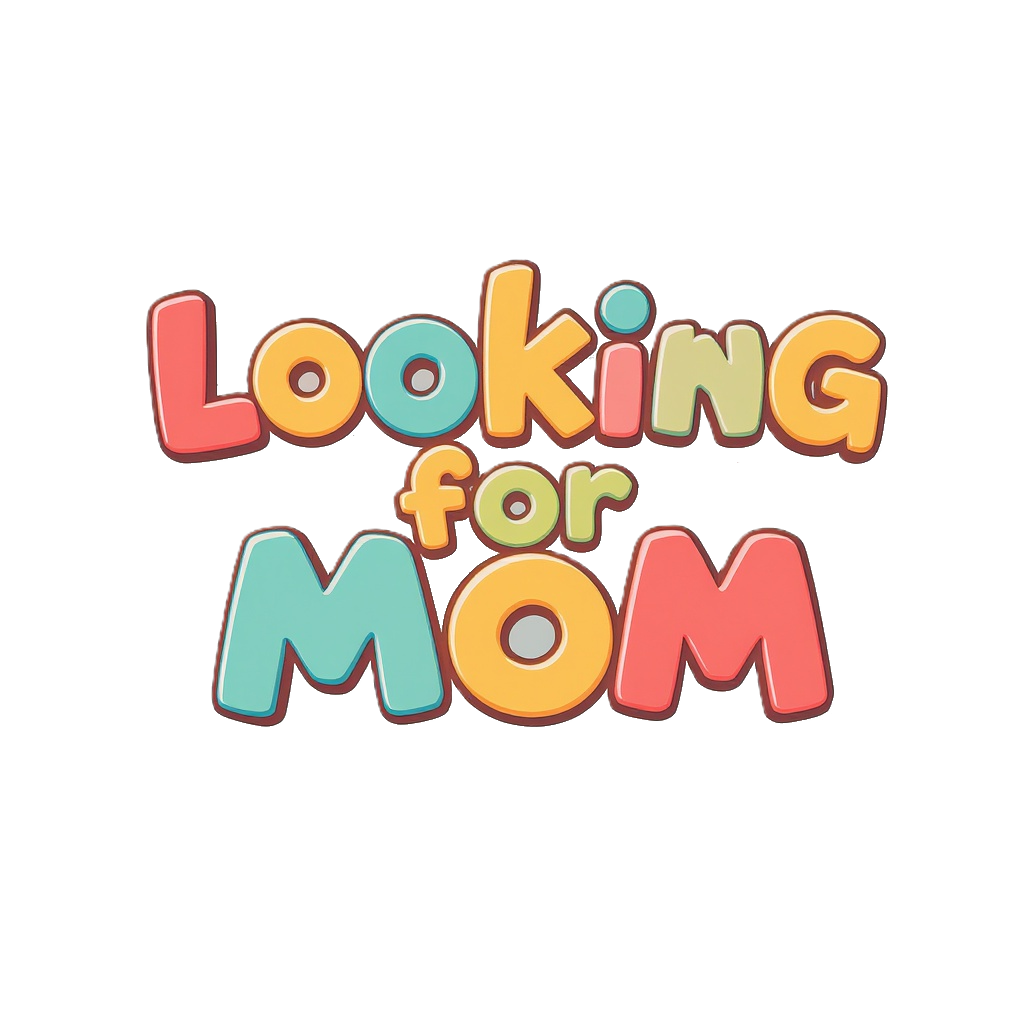
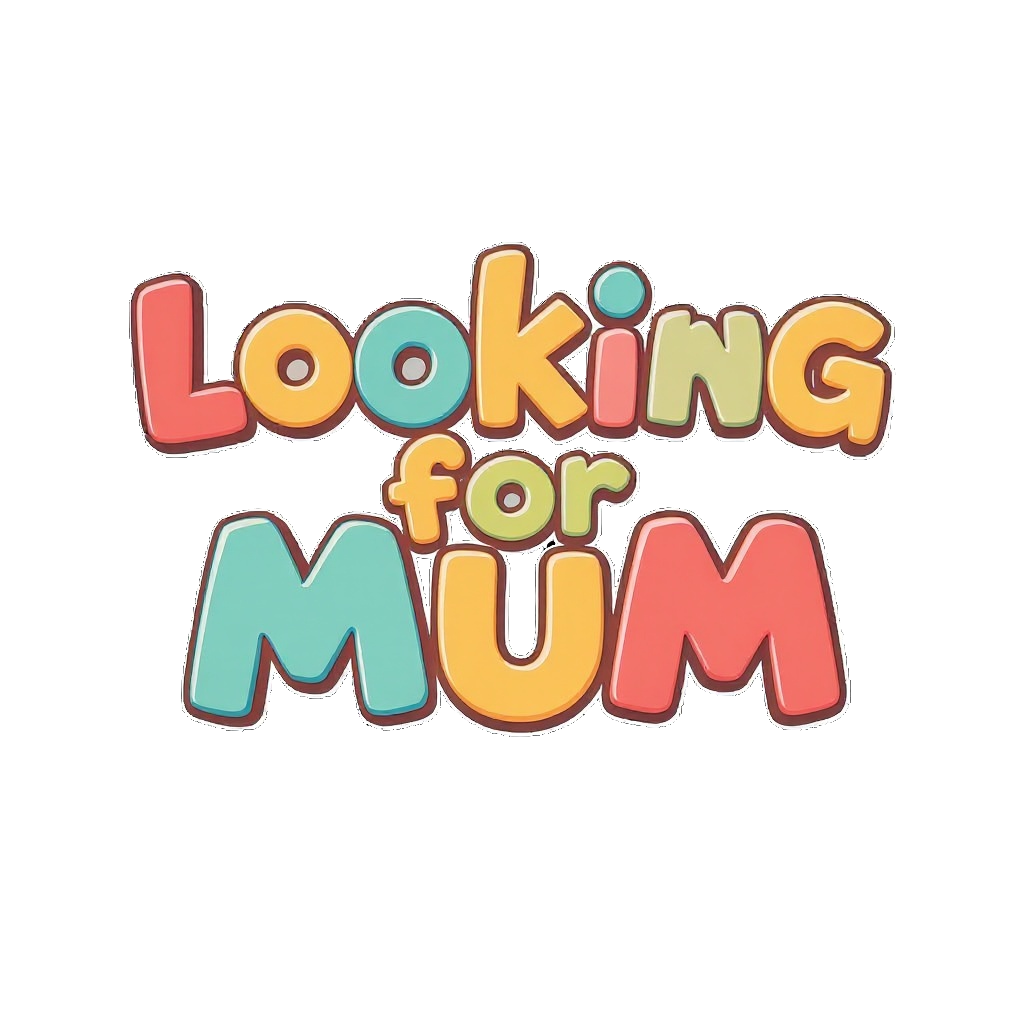
final stuff + readme.md

Changed region(s): [[0.125, 0.2188, 0.875, 0.7188]]

diff --git a/main.py b/main.py
@@ -1463,10 +1463,10 @@ class StartScreen:
             for i, pos in enumerate(positions):
                 img = [
                     'assets/main-character-shape.png',
-                    'assets/angry-shape.png',
-                    'assets/angry-shape.png',
                     'assets/happy-shape.png',
+                    'assets/angry-shape.png',                                        
                     'assets/happy-shape.png',
+                    'assets/angry-shape.png',
                     'assets/happy-shape.png'
                 ][i]
                 assets.append(FloatingAsset(img, pos[0], pos[1],
@@ -1749,7 +1749,7 @@ class Game:
         # Reset game time
         self.game_time = 0
         
-        pygame.display.set_caption(f"Find Your Mother! - {len(self.shapes)} Shapes to Explore")
+        pygame.display.set_caption(f"Looking for Mum - {len(self.shapes)} Shapes to Explore")
         print(f"Game initialized with {len(self.shapes)} shapes in {WORLD_WIDTH}x{WORLD_HEIGHT} world")
     
     def restart_game(self):
@@ -2115,7 +2115,7 @@ class Game:
             controls_y = SCREEN_HEIGHT - 120
             controls = [
                 "CONTROLS:",
-                "Left Click - Fire Harpoon towwards cursor",
+                "Left Click - Fire Harpoon towards cursor",
                 "A/D - Move on the edge of the current shape",                
             ]
             

diff --git a/README.md b/README.md
@@ -1,1 +1,65 @@
-# Escape-The-Shape-Hell-OLC-CodeJam-2025
+Looking-for-Mum-OLC-CodeJam-2025
+
+OBJECTIVE:
+===
+
+# 
+
+# Navigate back to the mother shape to win! (she looks like you)
+
+# &nbsp;CONTROLS:
+
+# 
+
+# Left Click - Fire Harpoon towards cursor
+
+# A/D - Move on the edge of the current shape  
+
+# STORY:
+
+# 
+
+# In the vast, gentle expanse of the geometric ether, little Bob, a shape of impeccable roundness, was snoozing soundly, drifting peacefully beside his dear old Mum. All was calm, all was bright.
+
+# 
+
+# That is, until a grumpy, pointy rotter came barging through with frightful manners, knocking right into Mum! It wasn't a great shove, mind you, just a bit of a nudge, but it was enough to set poor, sleeping Bob adrift.
+
+# 
+
+# When he awoke, the world was suddenly very big and Mum was nowhere to be seen. But Bob, with those amazing pink cheeks he has from his mother, didn't despair! He simply readied his trusty harpoon, gave his brilliant FindMUMmeter a confident tap, and set off on his grand adventure home.
+
+# 
+
+# Credits:
+
+# 
+
+# Sound
+
+# 
+
+# &nbsp;   Soundtrack \& Harpoon Sound: Created with stock resources from Ableton Live 12 Lite.
+
+# &nbsp;   Victory Sound: "goodresult-82807" from Pixabay. URL: https://pixabay.com/sound-effects/goodresult-82807/ 
+
+# 
+
+# Art
+
+# 
+
+# &nbsp;   Start Screen Shapes: Hand-drawn SVGs created in Canva.
+
+# &nbsp;   Start Screen Title: AI-generated via https://nanobanana.ai/ 
+
+# 
+
+# Code
+
+# 
+
+# &nbsp;   Source Code: Available at https://github.com/reallemoncucumber/Looking-for-Mum-OLC-CodeJam-2025
+
+# &nbsp;   Development Tools: VibeCoded using GitHub Copilot and Qwen-Code. 
+
